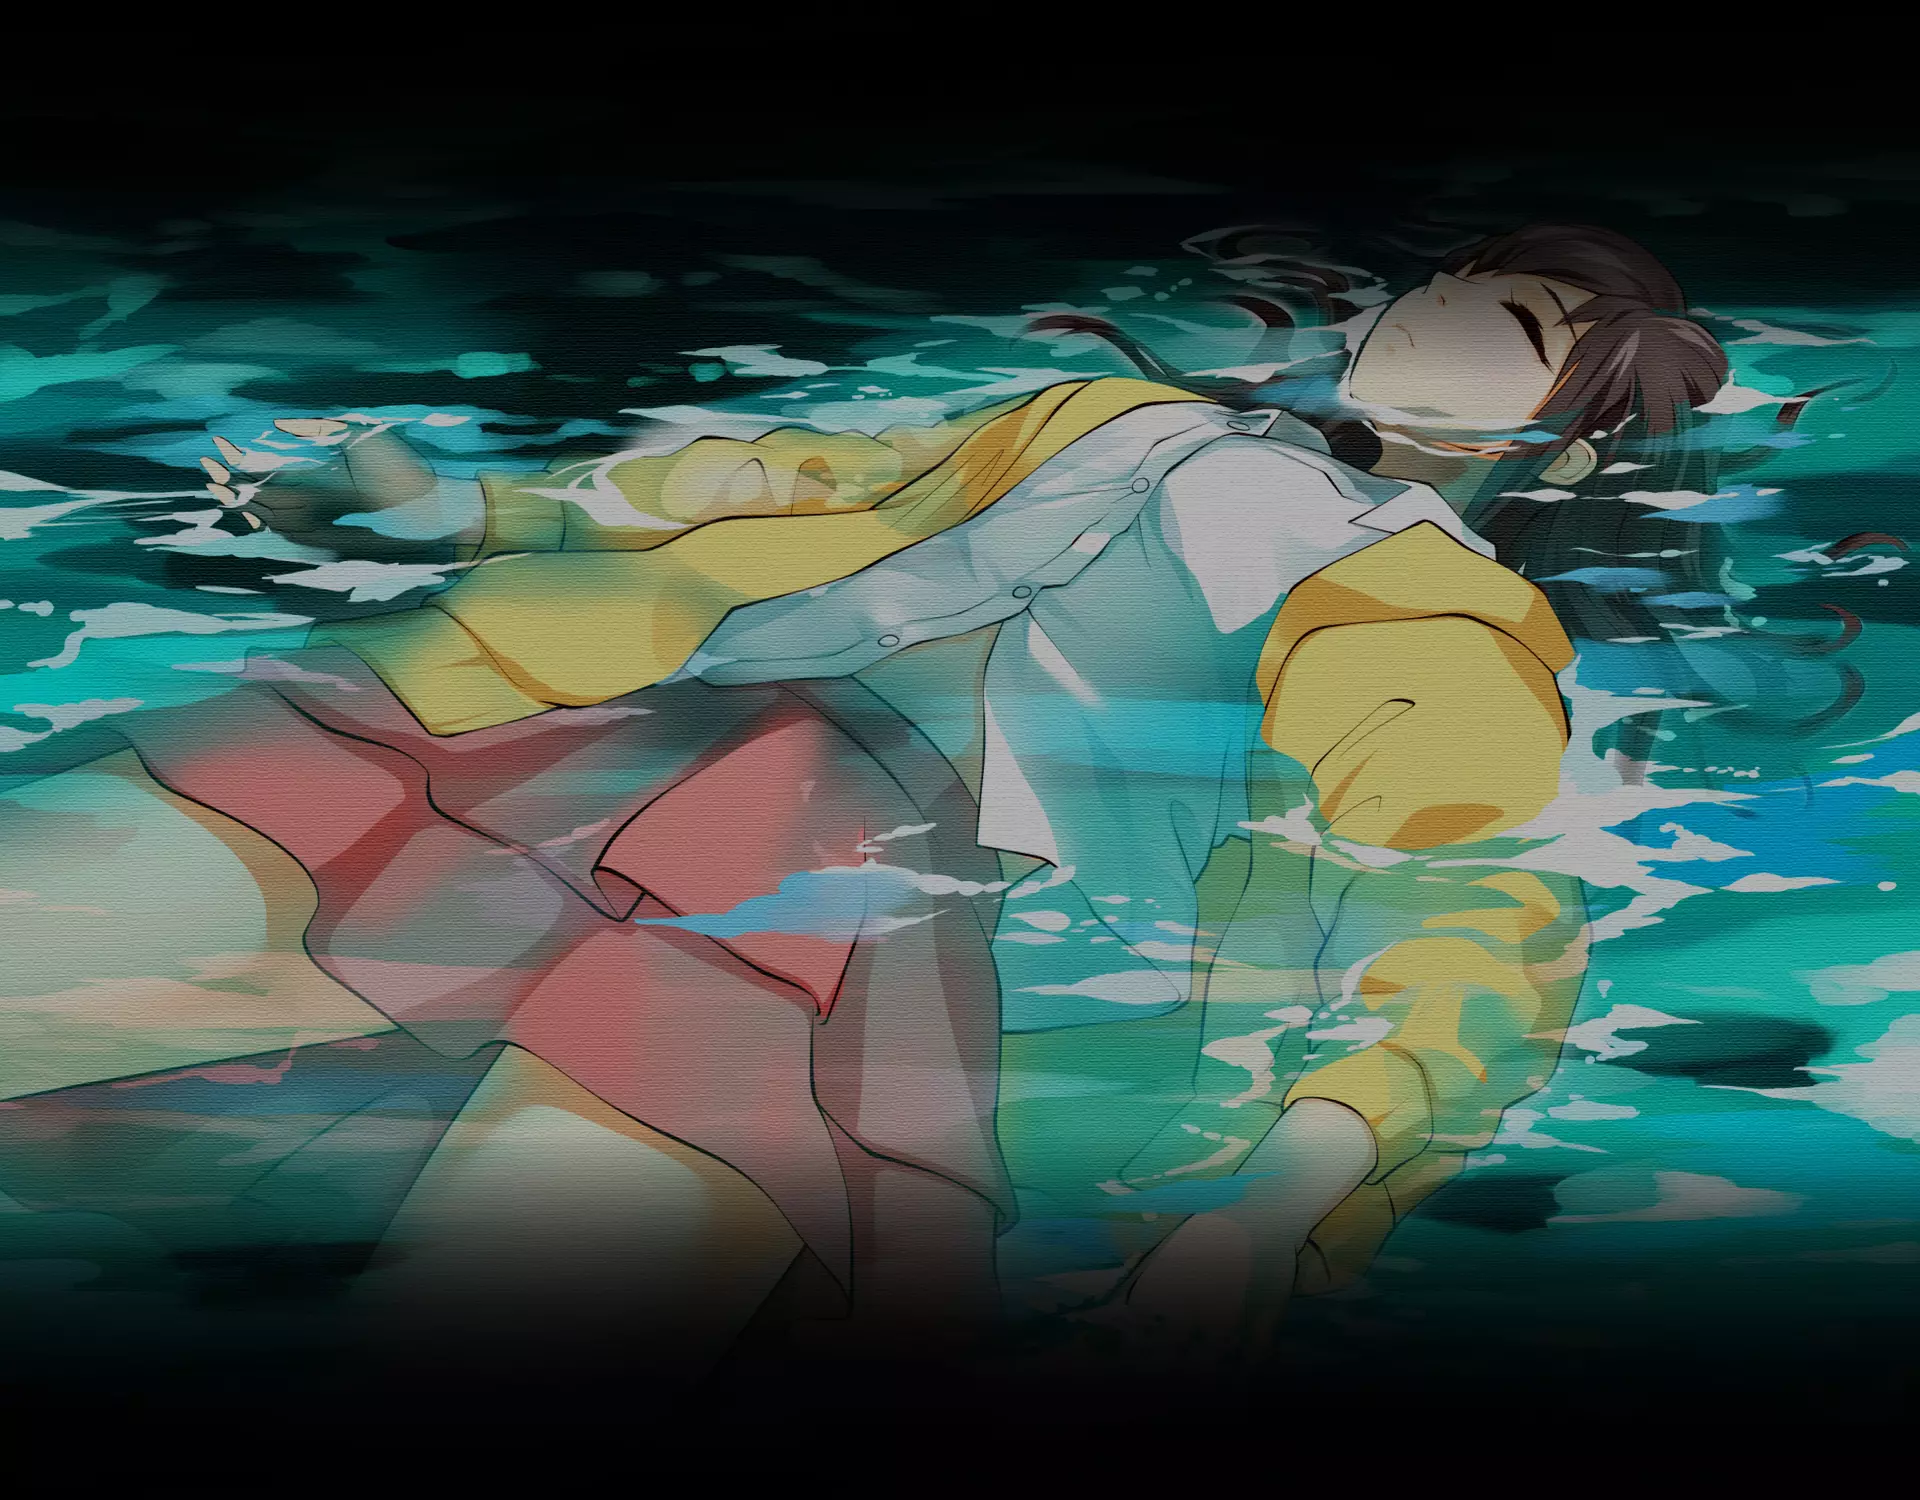
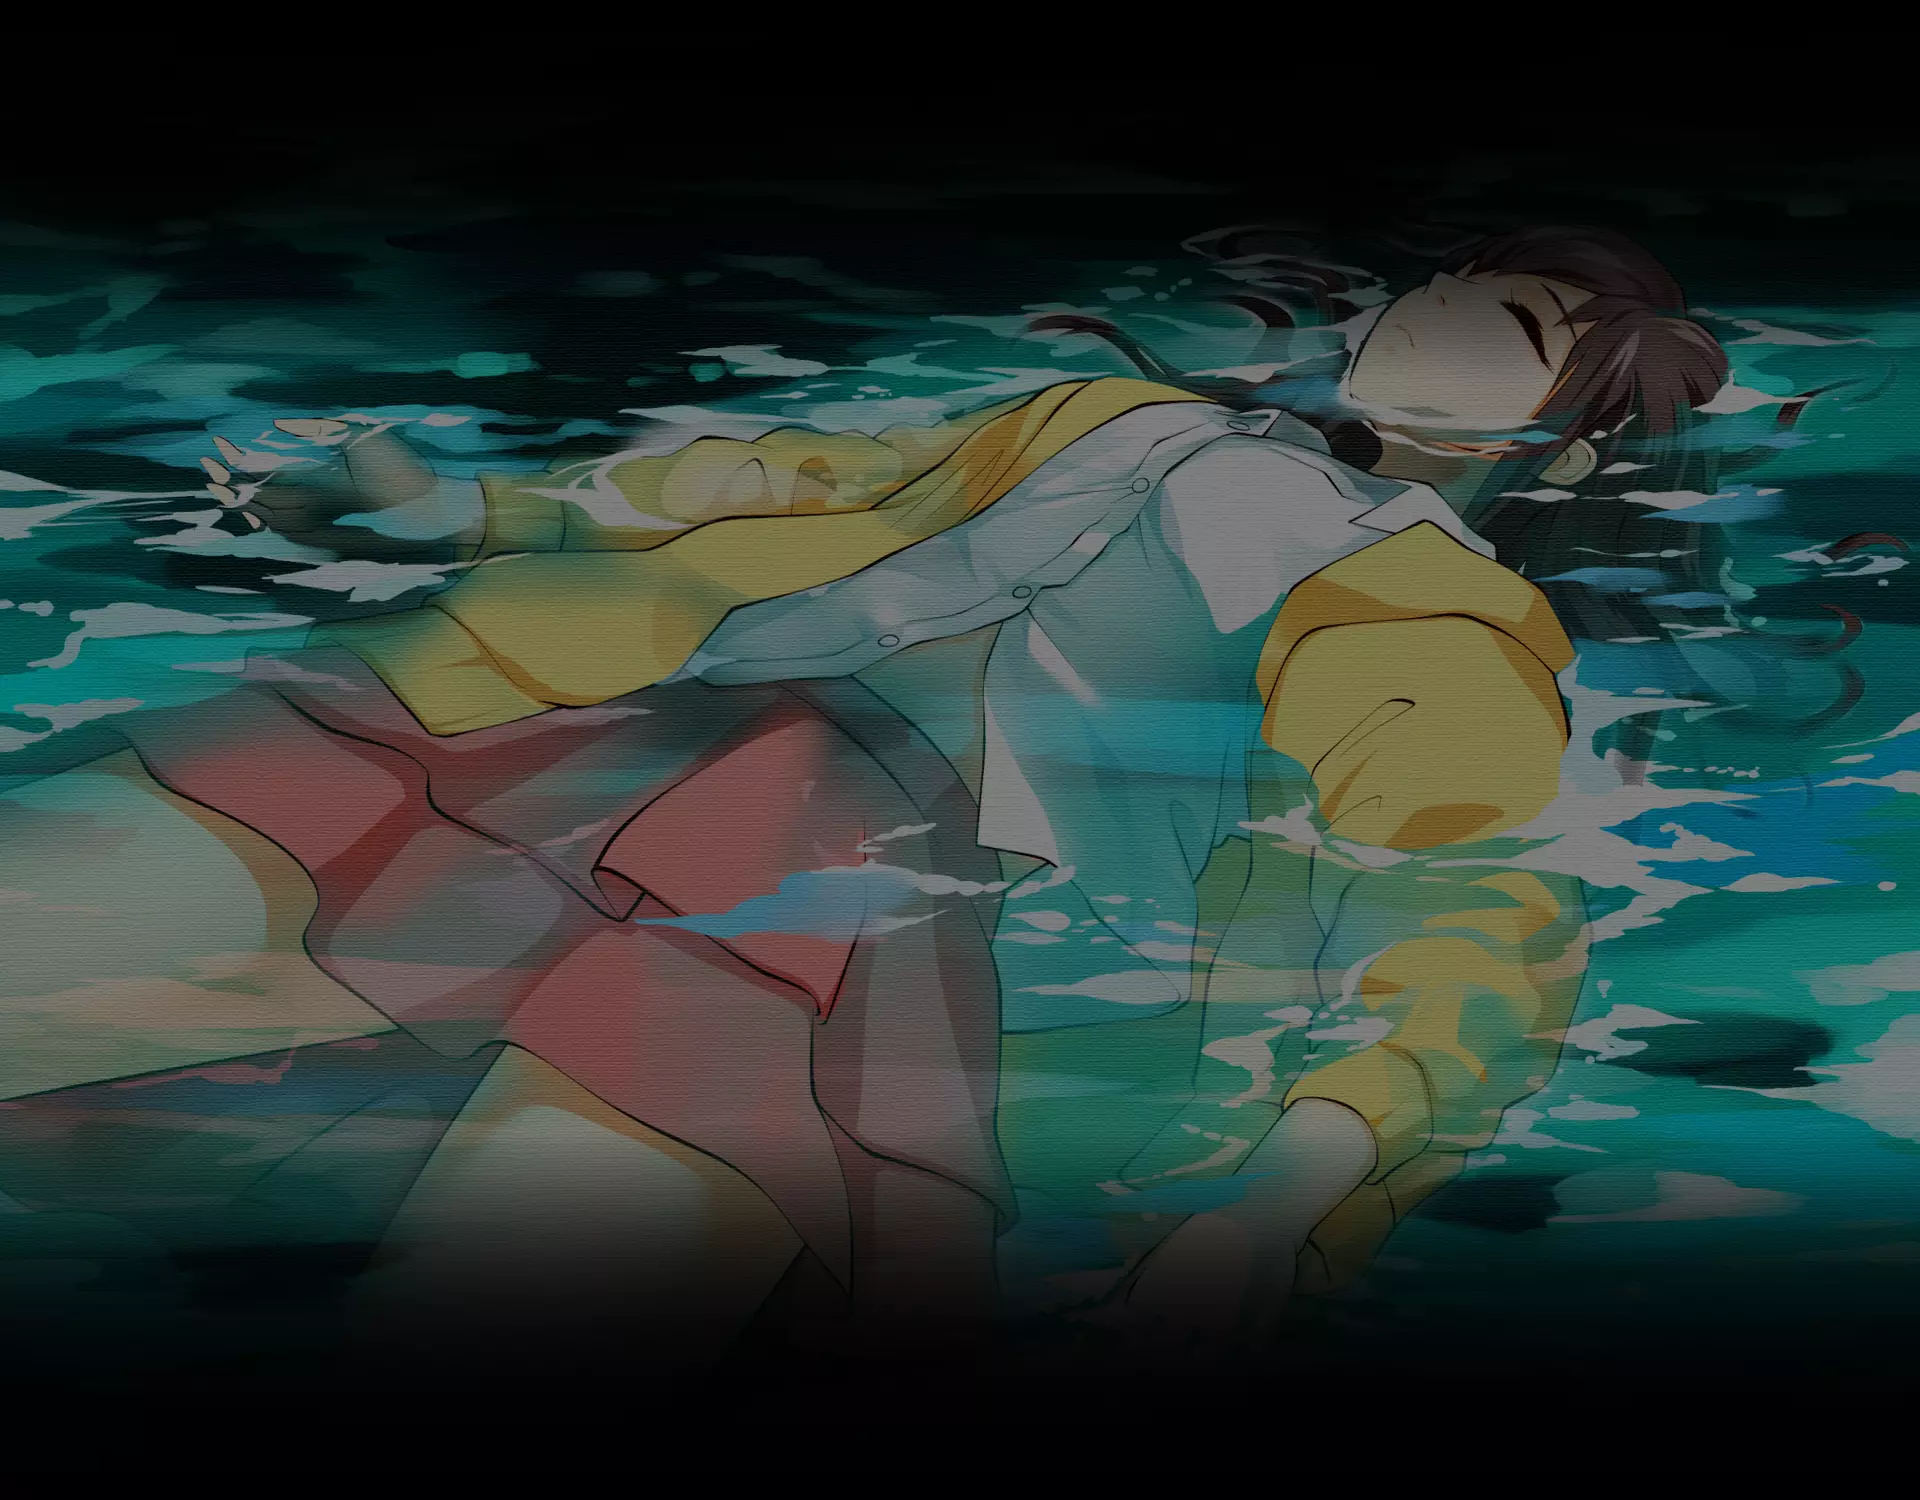
renew

diff --git a/css/grayscale.css b/css/grayscale.css
@@ -277,7 +277,7 @@ a:focus {
     width: 100%;
     padding: 50px 0;
     color: #fff;
-    background: url(../images/discouraged-workers-smoking.jpg) no-repeat center center scroll;
+    background: url(../images/discouraged-workers-records.webp) no-repeat center center scroll;
     background-color: #000;
     -webkit-background-size: cover;
     -moz-background-size: cover;
@@ -289,7 +289,7 @@ a:focus {
     width: 100%;
     padding: 50px 0;
     color: #fff;
-    background: url(../images/discouraged-workers-moonlight.jpg) no-repeat center center scroll;
+    background: url(../images/discouraged-workers-description.webp) no-repeat center center scroll;
     background-color: #000;
     -webkit-background-size: cover;
     -moz-background-size: cover;
@@ -317,7 +317,7 @@ a:focus {
     width: 100%;
     padding: 50px 0;
     color: #fff;
-    background: url(../images/discouraged-workers-eternal-happiness.jpg) no-repeat center center scroll;
+    background: url(../images/discouraged-workers-channels.webp) no-repeat center center scroll;
     background-color: #000;
     -webkit-background-size: cover;
     -moz-background-size: cover;
@@ -329,7 +329,7 @@ a:focus {
     width: 100%;
     padding: 50px 0;
     color: #fff;
-    background: url(../images/discouraged-workers-kiss-me.jpg) no-repeat center center scroll;
+    background: url(../images/discouraged-workers-thanks.webp) no-repeat center center scroll;
     background-color: #000;
     -webkit-background-size: cover;
     -moz-background-size: cover;
